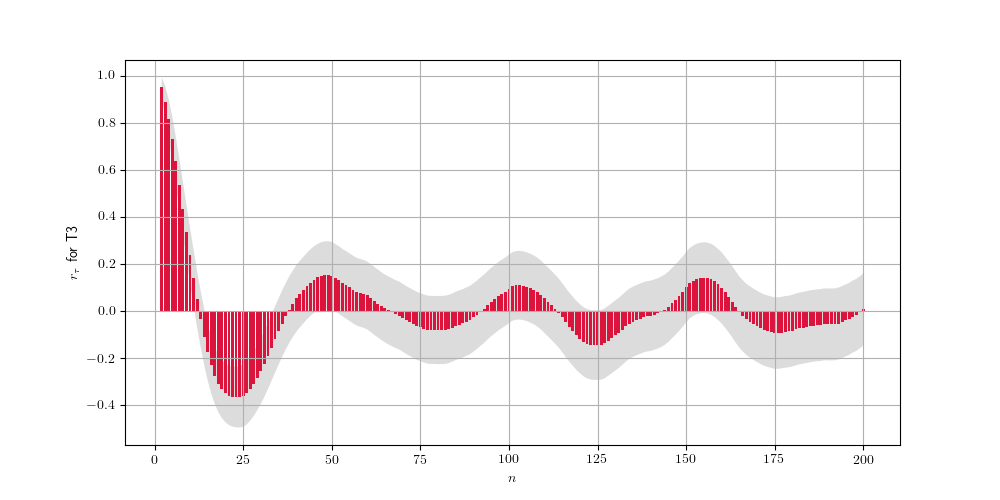
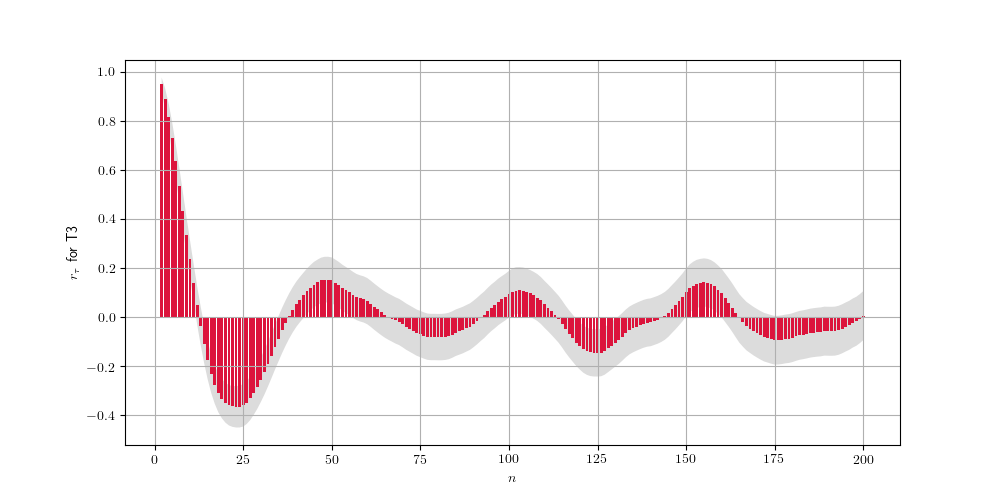
Pearson r added

diff --git a/private/Vasiliev/plot_corrfun.py b/private/Vasiliev/plot_corrfun.py
@@ -1,16 +1,13 @@
 import math
 import numpy as np
 from numpy import *
-from scipy.optimize import curve_fit
-from scipy import signal
 from os import path
 import matplotlib.pyplot as plt
 from statsmodels.tsa.stattools import acf, pacf
-
+import scipy.stats as stats
 
 plt.rc('text', usetex=True)
 
-outpath = "../../plots/acf"
 inpath = "../../"
 
 currentfile = "Imitator_2_2400.csv"
@@ -26,11 +23,12 @@ nlags=200
 acf_vals = np.zeros((nlags, 10))
 confit_vals = np.zeros((nlags, 2, 10))
 for n in range(0,10):
-	acf_vals[:, n], confit_vals[:, :, n] = acf(T[:, n], unbiased=True, nlags=nlags-1, qstat=False, alpha=.05, fft=False)
+	acf_vals[:, n], confit_vals[:, :, n] = acf(T[:, n], unbiased=True, nlags=nlags-1, qstat=False, alpha=.20, fft=False)
 lags=np.arange(1, nlags+1, 1)
 
 
 # Draw acf plots
+outpath = "../../plots/acf"
 for i in range(0, 10):
 	fig, ax = plt.subplots(figsize=(10, 5))
 	ax.fill_between(lags[1:], confit_vals[1:, 0, i], confit_vals[1:, 1, i], 
@@ -45,16 +43,34 @@ for i in range(0, 10):
 	fig.savefig(path.join(outpath, "ACF_T_{0}.png".format(i+1)))
 	plt.clf()
 
-# # Draw QLB p-values plot
-# fig, ax = plt.subplots(figsize=(4, 3.8))
-# ax.bar(lags[1:-1], pvalues[1:], color='crimson')
-# plt.grid()
-# # plt.ylabel(r'Ljung–Box Q test p-values')
-# plt.xlabel(r'$n$')
-# ax.xaxis.grid(b=True, which='both')
-# ax.yaxis.grid(b=True, which='both')
-# plt.title(r'Ljung–Box Q test p-values')
-# #ax.legend(loc='best', frameon=True)
-# plt.draw()
-# fig.savefig(path.join(outpath, "qlb200.png"))
-# plt.clf()
+# Draw Pearson correlation coefficient (pcc) plot
+outpath = "../../plots/pcc"
+r = np.zeros((10, 10))
+r_pvalues = np.zeros((10, 10))
+for i in range(0, 10):
+	for j in range(0, 10):
+		r[i, j], r_pvalues[i, j] = stats.pearsonr(T[:, i], T[:, j])
+T_n_labels = [r'$T_1$', r'$T_2$', r'$T_3$', r'$T_4$', r'$T_5$', r'$T_6$', r'$T_7$', r'$T_8$', r'$T_9$', r'$T_{10}$']
+fig, ax = plt.subplots(figsize=(10, 5))
+im = ax.imshow(r)
+ax.set_xticks(np.arange(len(T_n_labels)))
+ax.set_yticks(np.arange(len(T_n_labels)))
+
+ax.set_xticklabels(T_n_labels)
+ax.set_yticklabels(T_n_labels)
+
+# Rotate the tick labels and set their alignment.
+plt.setp(ax.get_xticklabels(), rotation=45, ha="right",
+         rotation_mode="anchor")
+
+# Loop over data dimensions and create text annotations.
+for i in range(0, 10):
+    for j in range(0, 10):
+        text = ax.text(j, i, np.round(r[i, j],1),
+                       ha="center", va="center", color="w")
+
+ax.set_title("Pearson correlation coefficient")
+fig.tight_layout()
+plt.draw()
+fig.savefig(path.join(outpath, "pcc.png"))
+plt.clf()
